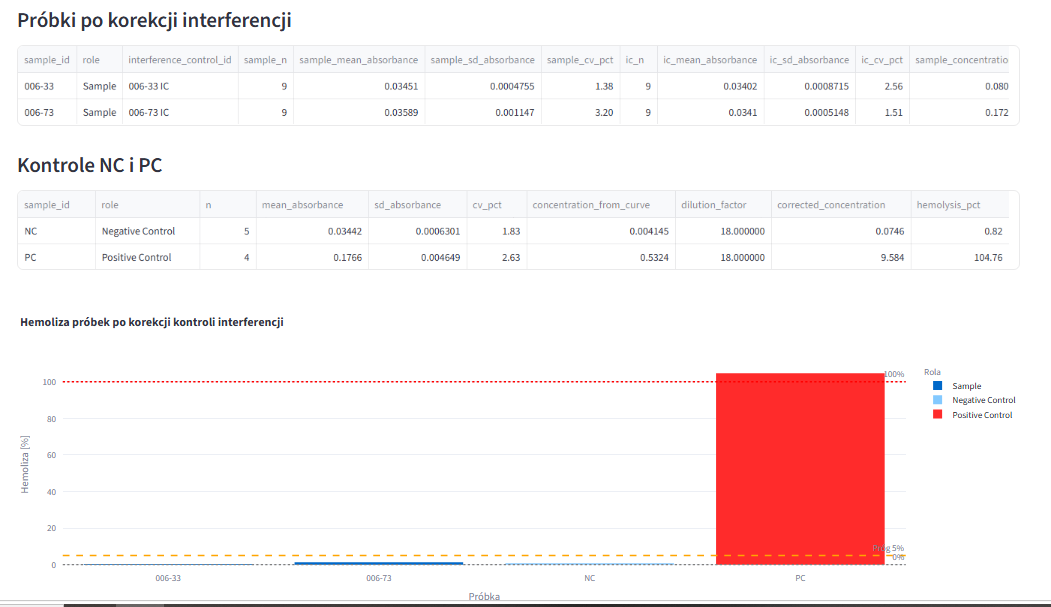
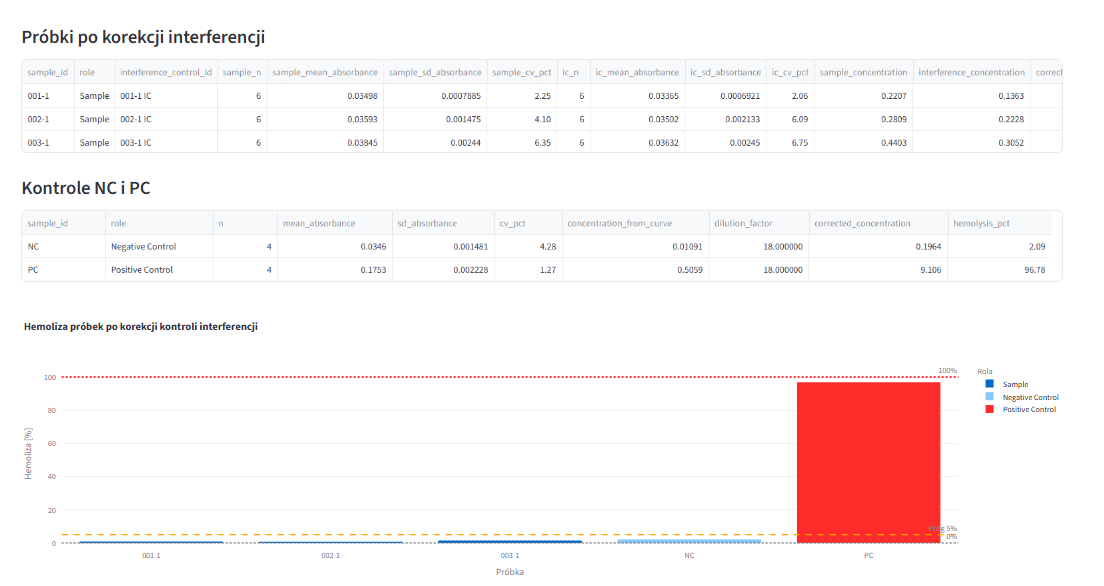
Update screenshots and add glucose sample data

diff --git a/README.md b/README.md
@@ -245,7 +245,7 @@ Zrzuty działania aplikacji znajdują się w katalogu `screenshots`.
 
 ### Import danych
 
-![Import danych](screenshots/import.PNG)
+![Import danych](screenshots/data_import.PNG)
 
 ### Analiza żywotności
 
@@ -253,7 +253,9 @@ Zrzuty działania aplikacji znajdują się w katalogu `screenshots`.
 
 ### Analiza stężenia glukozy
 
-![Analiza stężenia glukozy](screenshots/glucose.PNG)
+![Analiza stężenia glukozy](screenshots/glucose_std.PNG)
+
+![Analiza stężenia glukozy](screenshots/glucose_samples.PNG)
 
 ### Analiza hemolizy
 
